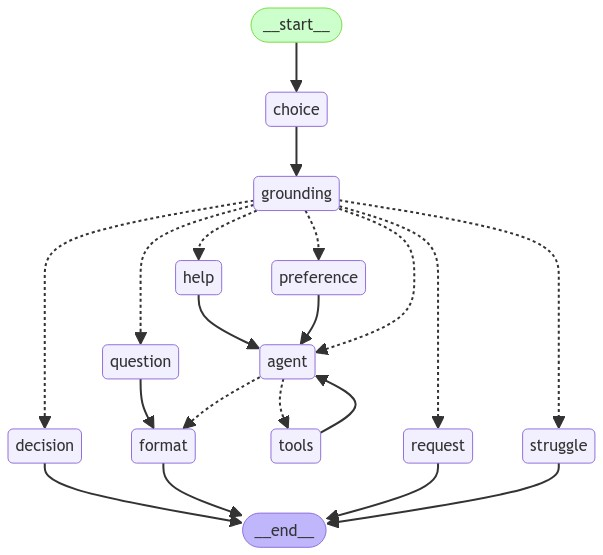
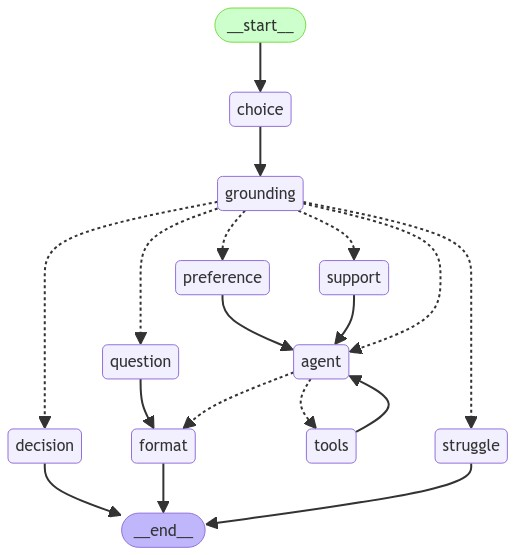
fixes

diff --git a/anadeabot/graph.py b/anadeabot/graph.py
@@ -6,6 +6,7 @@ from langchain_core.runnables import RunnableConfig, RunnablePassthrough
 from langchain_core.language_models.chat_models import BaseChatModel
 from langchain_core.output_parsers import StrOutputParser
 from langchain_core.documents import Document
+from langchain_core.pydantic_v1 import ValidationError
 
 from langgraph.graph import StateGraph, START, END, add_messages
 from langgraph.prebuilt import ToolNode
@@ -27,7 +28,7 @@ from anadeabot.prompts import (
     choice_detection_prompt,
     intent_detection_prompt,
     struggle_support_prompt,
-    struggle_details_prompt,
+    support_details_prompt,
     ask_for_confirmation_prompt,
     ask_missing_attribute_prompt,
     design_satisfaction_prompt,
@@ -39,7 +40,8 @@ from anadeabot.prompts import (
     question_faq_prompt,
     format_response_prompt,
     acknowledge_request_prompt,
-    intent_support_prompt
+    check_for_request_details,
+    clarify_details_prompt
 )
 
 TOOLS = [*option_tools]
@@ -102,7 +104,10 @@ def choice_node(state: State, config: RunnableConfig):
     llm = config['configurable']['llm']
     structured = llm.with_structured_output(DesignChoice)
     chain = (choice_detection_prompt | structured)
-    design = chain.invoke({'history': state['messages']})
+    try:
+        design = chain.invoke({'history': state['messages']})
+    except ValidationError:
+        return {'design': DesignChoice()}
     return {'design': design}
 
 
@@ -164,22 +169,23 @@ def question_node(state: State, config: RunnableConfig):
     })}
 
 
-def help_node(state: State, config: RunnableConfig):
+def support_node(state: State, config: RunnableConfig):
     llm = config['configurable']['llm']
-    structured = llm.with_structured_output(SupportRequest)
-    chain = (struggle_details_prompt | structured)
-    request = chain.invoke({'history': state['messages']})
-    session = config['configurable']['session']
-    user = database.get_user(config['configurable']['thread_id'], session=session)
-    database.make_request(user, request.details, session=session)
-    return {'messages': [acknowledge_request_prompt]}
-
-
-def request_node(state: State, config: RunnableConfig):
-    llm = config['configurable']['llm']
-    chain = (intent_support_prompt | llm)
-    response = chain.invoke({'history': state['messages']})
-    return {'messages': response}
+    structured = llm.with_structured_output(BooleanOutput)
+    chain = (check_for_request_details | structured)
+    has_details = chain.invoke({'history': state['messages']})
+    print(has_details.value)
+    if has_details.value:
+        structured = llm.with_structured_output(SupportRequest)
+        chain = (support_details_prompt | structured)
+        request = chain.invoke({'history': state['messages']})
+        print(request.details)
+        session = config['configurable']['session']
+        user = database.get_user(config['configurable']['thread_id'], session=session)
+        database.make_request(user, request.details, session=session)
+        return {'messages': acknowledge_request_prompt}
+    else:
+        return {'messages': clarify_details_prompt}
 
 
 def format_node(state: State, config: RunnableConfig):
@@ -201,21 +207,19 @@ def create_graph(checkpointer) -> CompiledStateGraph:
     graph_builder.add_node('agent', agent)
     graph_builder.add_node('grounding', grounding_node)
     graph_builder.add_node('struggle', struggle_node)
-    graph_builder.add_node('help', help_node)
     graph_builder.add_node('decision', decision_node)
     graph_builder.add_node('choice', choice_node)
     graph_builder.add_node('preference', preference_node)
     graph_builder.add_node('question', question_node)
     graph_builder.add_node('tools', ToolNode(TOOLS))
     graph_builder.add_node('format', format_node)
-    graph_builder.add_node('request', request_node)
+    graph_builder.add_node('support', support_node)
     graph_builder.add_edge(START, 'choice')
     graph_builder.add_edge('choice', 'grounding')
     graph_builder.add_conditional_edges('grounding', intent_node,
-                                        ['preference', 'decision', 'question', 'struggle', 'help', 'request', 'agent'])
-    graph_builder.add_edge('request', END)
+                                        ['preference', 'decision', 'question', 'struggle', 'support', 'agent'])
+    graph_builder.add_edge('support', 'agent')
     graph_builder.add_edge('struggle', END)
-    graph_builder.add_edge('help', 'agent')
     graph_builder.add_edge('preference', 'agent')
     graph_builder.add_edge('question', 'format')
     graph_builder.add_edge('tools', 'agent')

diff --git a/anadeabot/prompts.py b/anadeabot/prompts.py
@@ -22,13 +22,14 @@ greeting_prompt = SystemMessage("""
 choice_detection_prompt = ChatPromptTemplate.from_messages([
     MessagesPlaceholder('history'),
     SystemMessage(
-        """If a user made a choice of some of the T-shirt design attributes, or
-        decided to change their mind about previously chosen attribute options,
-        then try to infer their values. If a user is not interested in a specific
-        attribute, or is ready to go with an arbitrary option, choose an option
-        for that attribute on your own. If some attributes are not present, do
-        not worry and just leave them empty, DO NOT MAKE UP VALUES. ALL ATTRIBUTES
-        ARE OPTIONAL, if a users specified unavailable options, LEAVE IT EMPTY.""")
+        """Given the above conversation, if a user made a choice of some of the
+        T-shirt design attributes, or decided to change their mind about previously
+        chosen attribute options, then try to infer their values. If a user is not
+        interested in a specific attribute, or is ready to go with an arbitrary option,
+        choose an option for that attribute on your own. If some attributes are not
+        present, do not worry and just leave them NONE, DO NOT MAKE UP VALUES.
+        ALL ATTRIBUTES ARE OPTIONAL, if a users specified unavailable options, LEAVE IT
+        EMPTY.""")
 ])
 
 intent_detection_prompt = ChatPromptTemplate.from_messages([
@@ -136,15 +137,28 @@ struggle_support_prompt = ChatPromptTemplate.from_messages([
     """)
 ])
 
-struggle_details_prompt = ChatPromptTemplate.from_messages([
+check_for_request_details = ChatPromptTemplate.from_messages([
     MessagesPlaceholder('history'),
     SystemMessage("""
-        A user wants to request help from customer support, so given the above
-        conversation, extract the details of user's intent for the customer
-        support. For example, what was user's question, or the problem they
-        faced. Compose a self-contained summary of essence of user's request.
+        Determine if a user specified that they have a problem, issue or a question,
+        which they want to tell the support team.
     """)
 ])
+
+support_details_prompt = ChatPromptTemplate.from_messages([
+    MessagesPlaceholder('history'),
+    SystemMessage("""
+        Determine the reason why a user wants to make a request to customer
+        support from the above conversation. Try to extract the details of
+        user's intent for the customer support. Compose a self-contained summary
+        of essence of user's request of AT LEAST 3 sentences. User MUST specify
+        precisely WHAT they want or need help WITH.
+    """)
+])
+
+clarify_details_prompt = SystemMessage("""
+    Ask a user to explain why do they want to call a support team.
+""")
 
 acknowledge_request_prompt = SystemMessage("""
     Tell the user that a support request of a user has been sent to our
@@ -155,11 +169,11 @@ acknowledge_request_prompt = SystemMessage("""
 intent_support_prompt = ChatPromptTemplate.from_messages([
     MessagesPlaceholder('history'),
     SystemMessage("""
-        A user decided to call support team. Given the above conversation,
-        try to determine what a user wants to ask support about, then
-        clarify why a user to make a support call about. If a user already
-        said why do they want to make a call, do not ask again, just rephrase
-        and present the user's request to a user to clarify if it is correct.
+        A user decided to call a support team. Say something like: "Okay, lets
+        now call the support team". Then if the user previously specified why
+        they want to call the support team, repeat what they want and ask them to
+        clarify if everything is correct. If a user did not yet specified why
+        do they want support, then ask them why do they want to make a request.
     """)
 ])
 

diff --git a/anadeabot/schemas.py b/anadeabot/schemas.py
@@ -6,7 +6,7 @@ from anadeabot import options
 
 
 class DesignChoice(BaseModel):
-    """A set of user T-shirt attribute design choices."""
+    """A set of user T-shirt attribute design choices. EVERY FIELD IS OPTIONAL."""
 
     color: Optional[options.TShirtColor | str] = Field(
         default=None,
@@ -103,18 +103,10 @@ class UserIntent(BaseModel):
                     some goal. You can take into account user's tone, expressions,
                     number of repetitions of a question, or this sort of behaviour.""")
 
-    help: bool = Field(
+    support: bool = Field(
         default=None,
-        description="""Given the above conversation, if we previously suggested
-                    a user to make a request to customer support, and now the
-                    user agreed to send a request for help from support,
-                    then fire this flag.""")
-
-    request: bool = Field(
-        default=None,
-        description="""Given the above conversation, if we did not ask a user about
-                    contacting support, but a user expressed desire to make a request
-                    to support, to tell them something, or to ask a question.""")
+        description="""Given the above conversation, if a user wants to make a
+                    request to the customer support, then fire this flag.""")
 
     agent: bool = Field(
         default=None,
@@ -133,10 +125,14 @@ class ExpectedIntent(BaseModel):
 
 class SupportRequest(BaseModel):
     """A user wants to make a request to customer support because they faced
-    some problem, have a question or require a help of a human specialist."""
+    some problem, have a question or require a help of a human specialist.
+    Determine the reason why a user wants to make a request to customer
+    support from the above conversation. Try to extract the details of
+    user's intent for the customer support. Compose a self-contained summary
+    of essence of user's request of AT LEAST 3 sentences. User MUST specify
+    precisely WHAT they want or need help WITH."""
 
-    details: str = Field(
+    details: str | None = Field(
         default=None,
-        description="""A concise, self-contained summary of user's support
-                    request extracted from the conversation with a user."""
+        description="""A concise, self-contained summary of user's support request."""
     )

diff --git a/README.md b/README.md
@@ -20,7 +20,7 @@ The stack the app is built with is:
 
 - LangChain for RAG and model interactions
 
-- Pyrogram as an interface and API of an application
+- Pyrogram as an interface and API of the application
 
 - PostgreSQL as a primary database and a vectorstore
 
